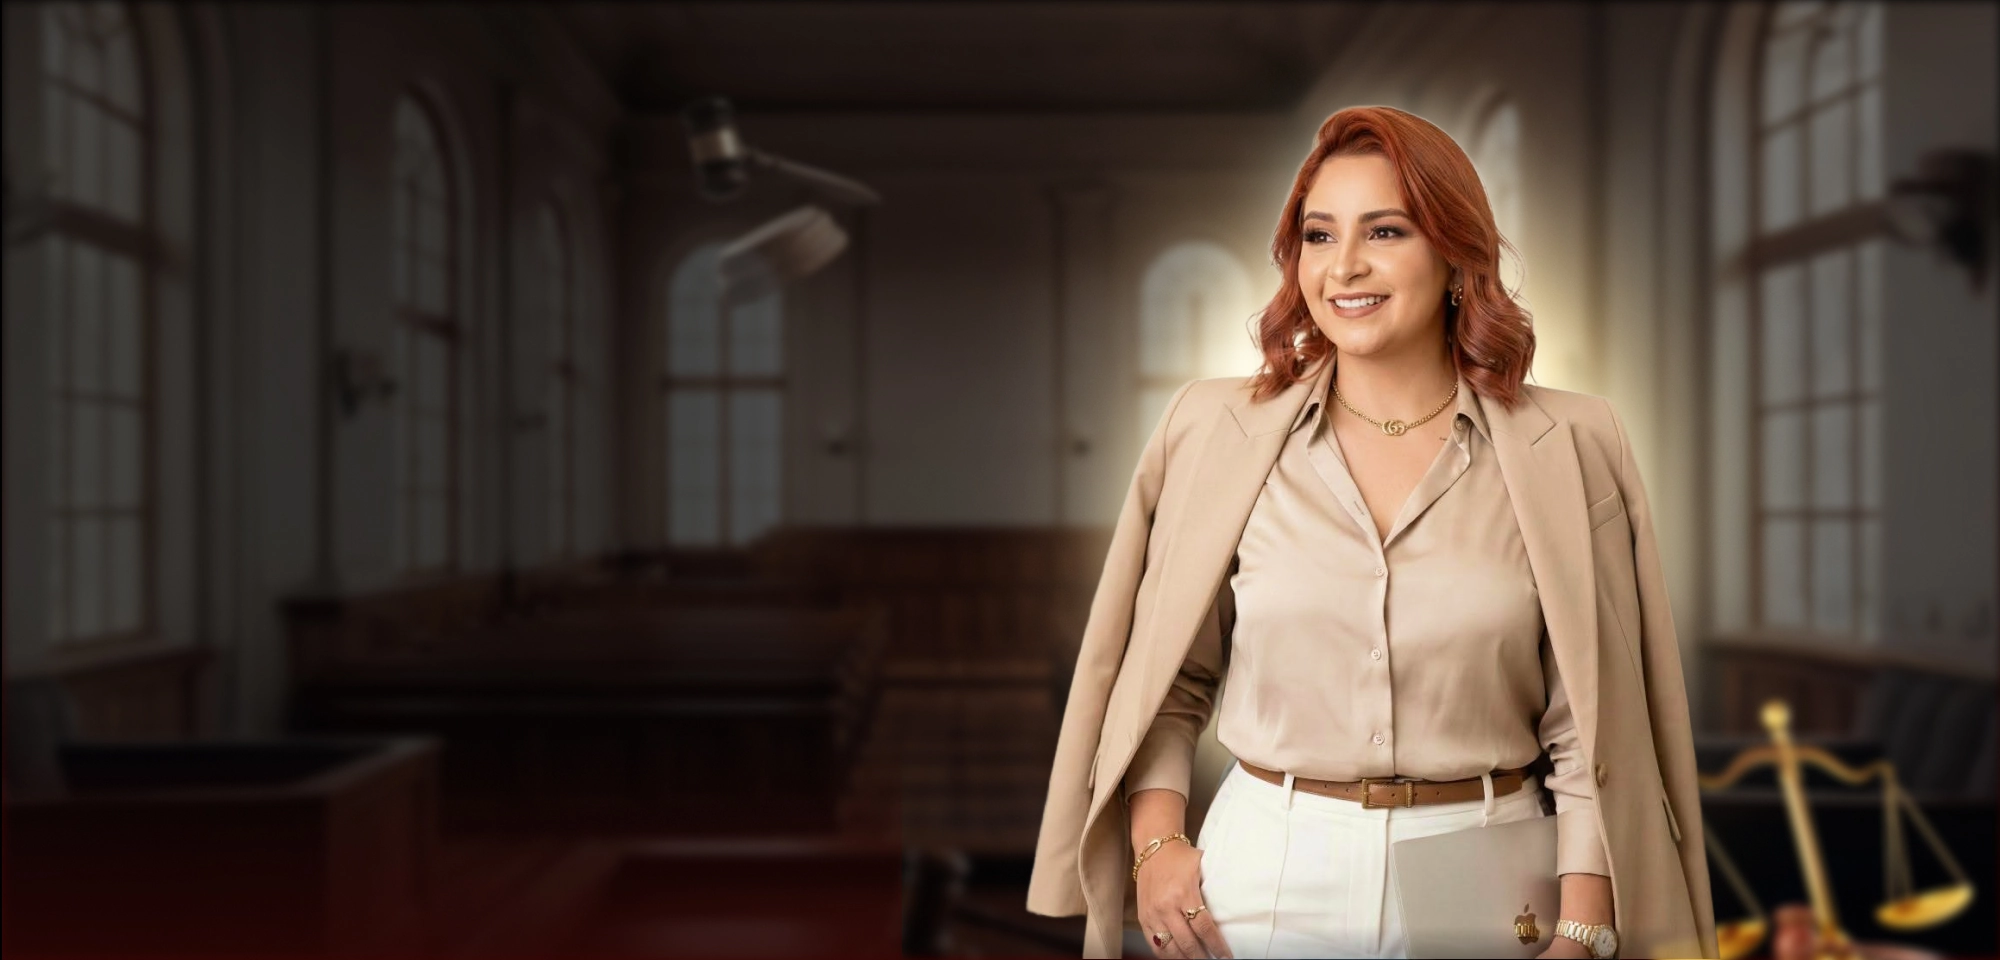
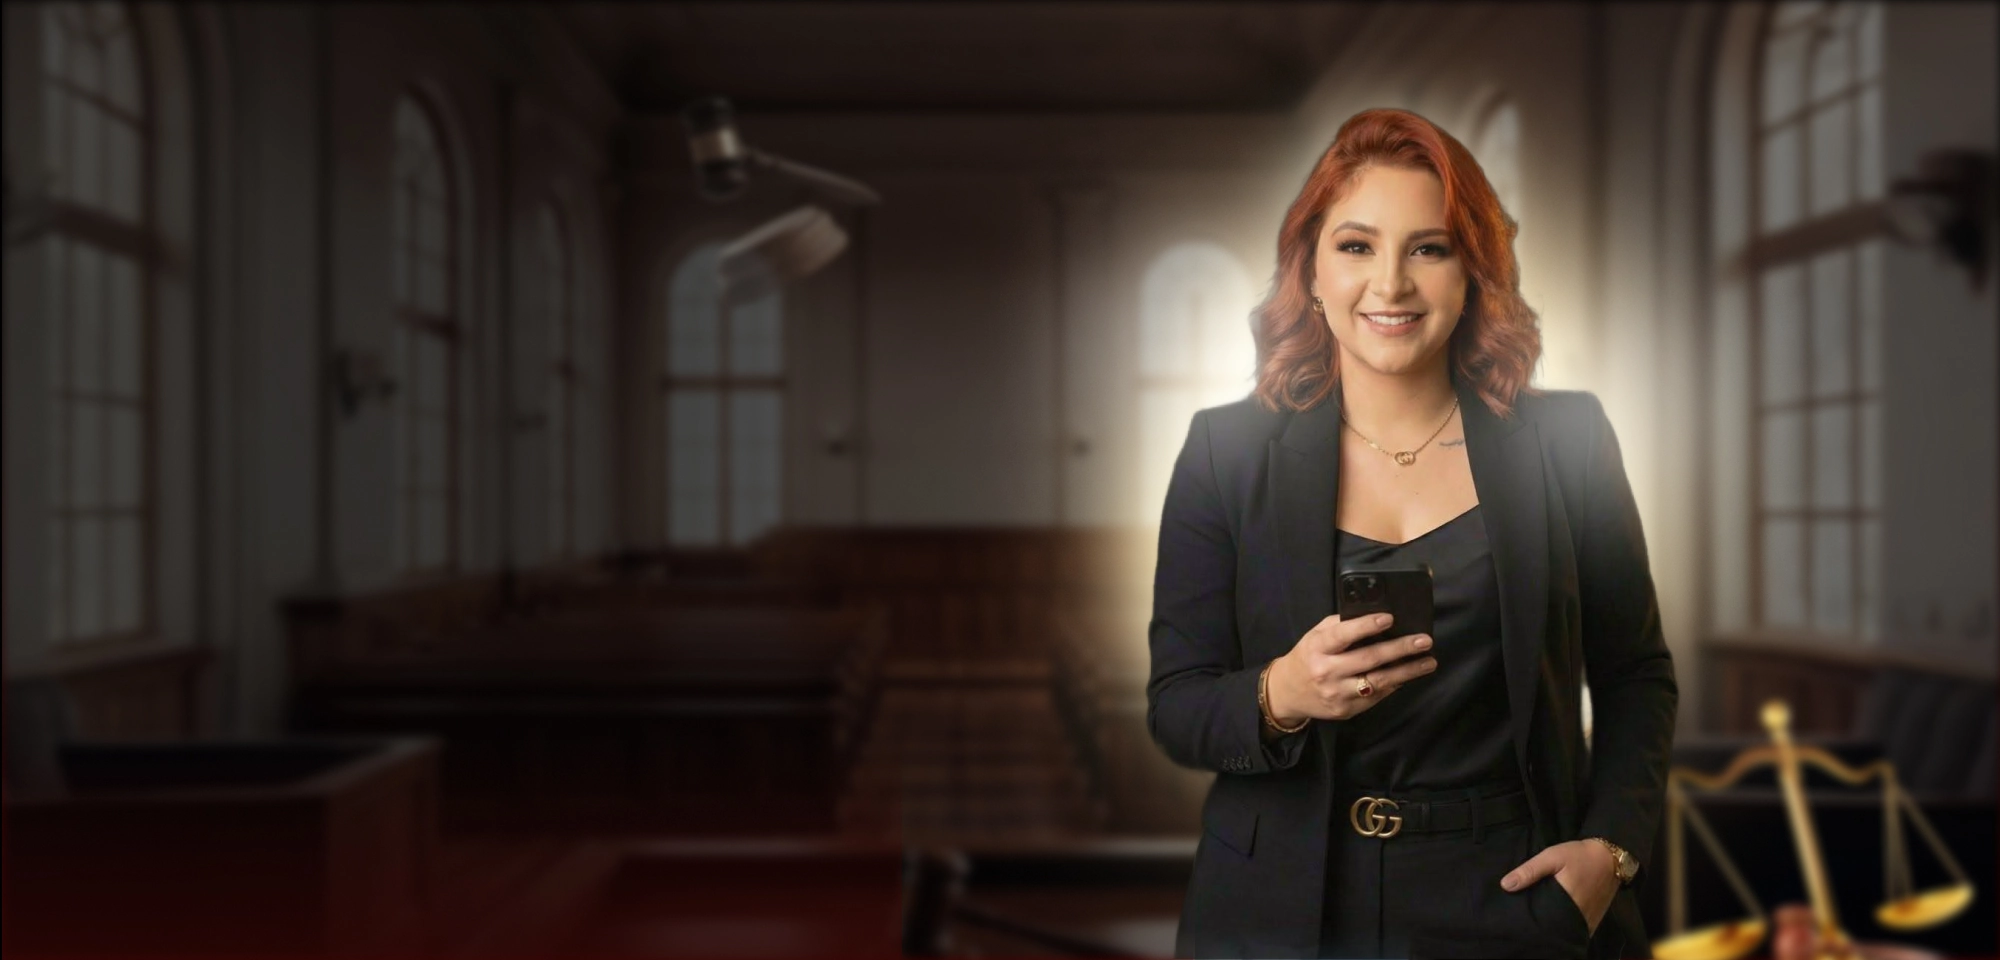
fix: Imagem Hero e about

Changed region(s): [[0.496, 0.0938, 0.868, 1.0]]

diff --git a/src/content/content.jsx b/src/content/content.jsx
@@ -1,7 +1,7 @@
 import logo from '../assets/imgs/logo/logo.webp'
 import heroImg from '../assets/imgs/hero/lawHero.jpg'
 import bgHeroImg from '../assets/imgs/hero/bgHero.webp'
-import heroImgPhone from '../assets/imgs/hero/heroImgPhone.png'
+import heroImgPhone from '../assets/imgs/hero/heroImgPhone.webp'
 import heroImgDesktop from '../assets/imgs/hero/heroDesktop.webp'
 import heroDefaultImg from '../assets/imgs/hero/lawHero.jpg'
 import backgroundMobile from '../assets/imgs/hero/backgroundMobile.webp'
